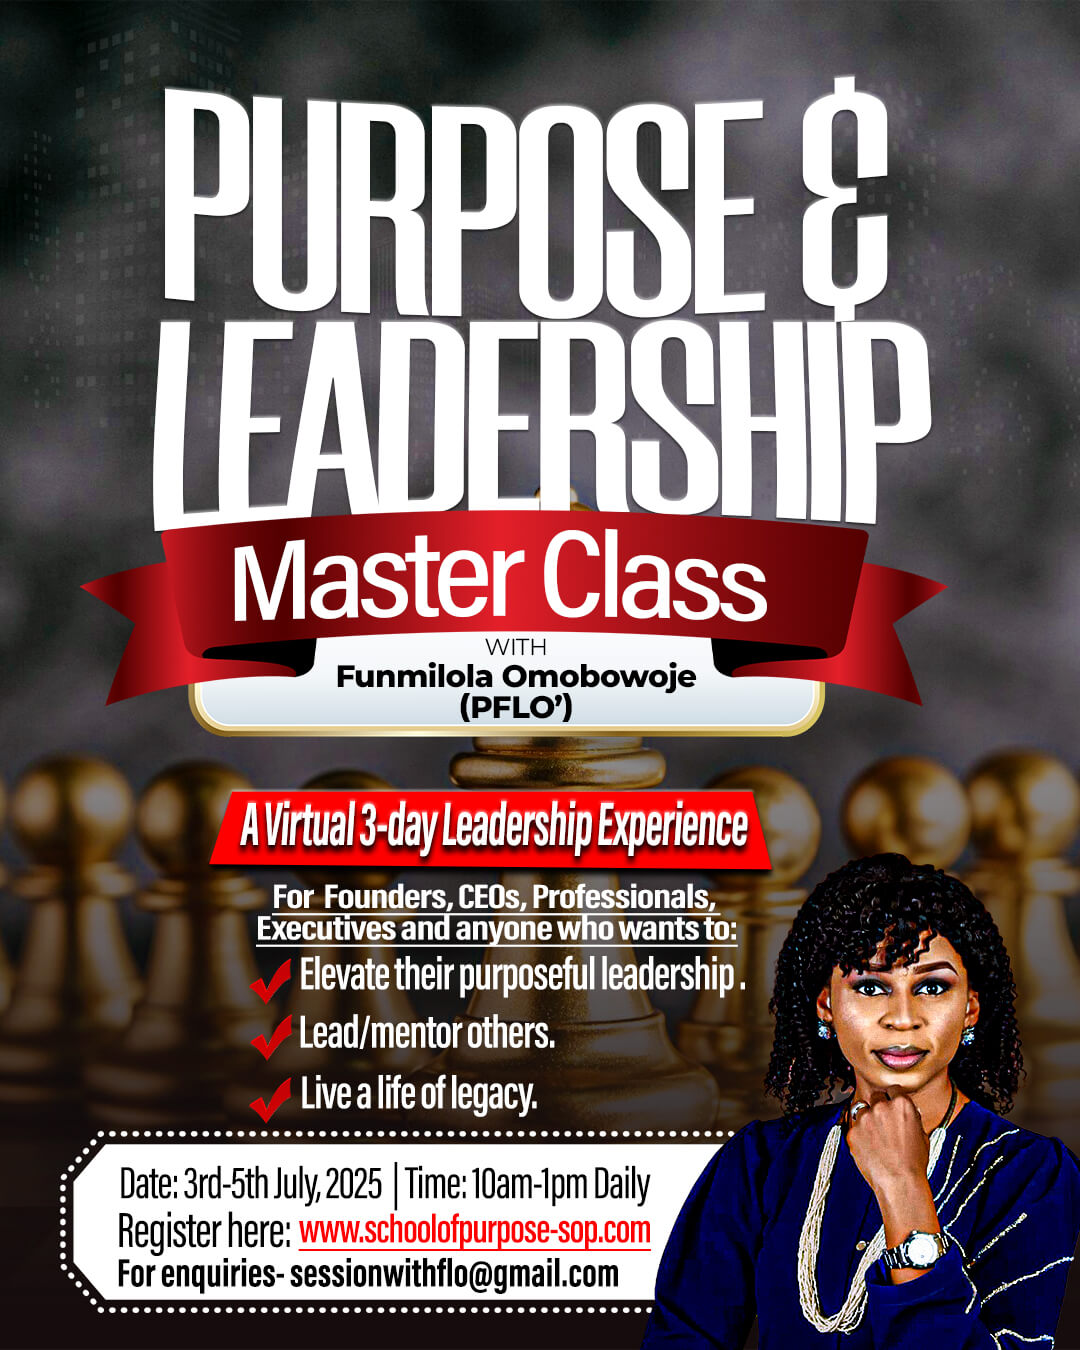
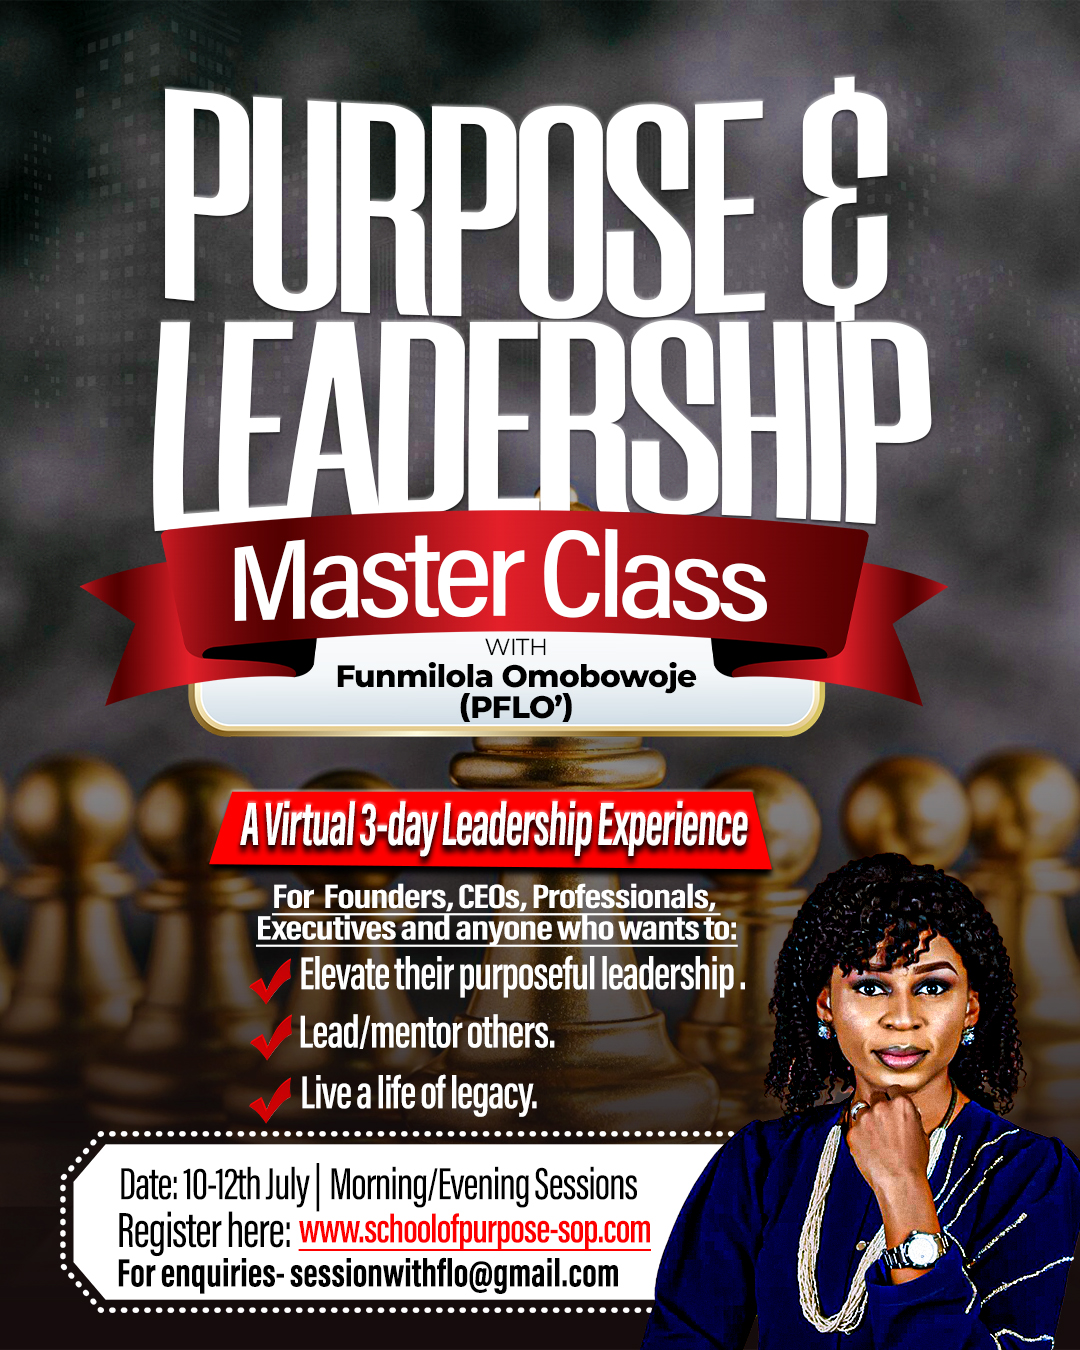
Updated the registration information for master class

diff --git a/src/components/MasterClass/MasterClass.jsx b/src/components/MasterClass/MasterClass.jsx
@@ -27,8 +27,8 @@ const MasterClass = () => {
             </ul>
 
             <div className="enrollment-box">
-              <p className="date">Date: 3rd – 5th July, 2025</p>
-              <p className="note">Enrollment closes: 1st July, 2025</p>
+              <p className="date">Date: 10th – 12th July, 2025</p>
+              <p className="note">Enrollment closes: 8st July, 2025</p>
               <a
                 href="https://forms.gle/QKRWMbQc82cgVYvo6"
                 target="_blank"
